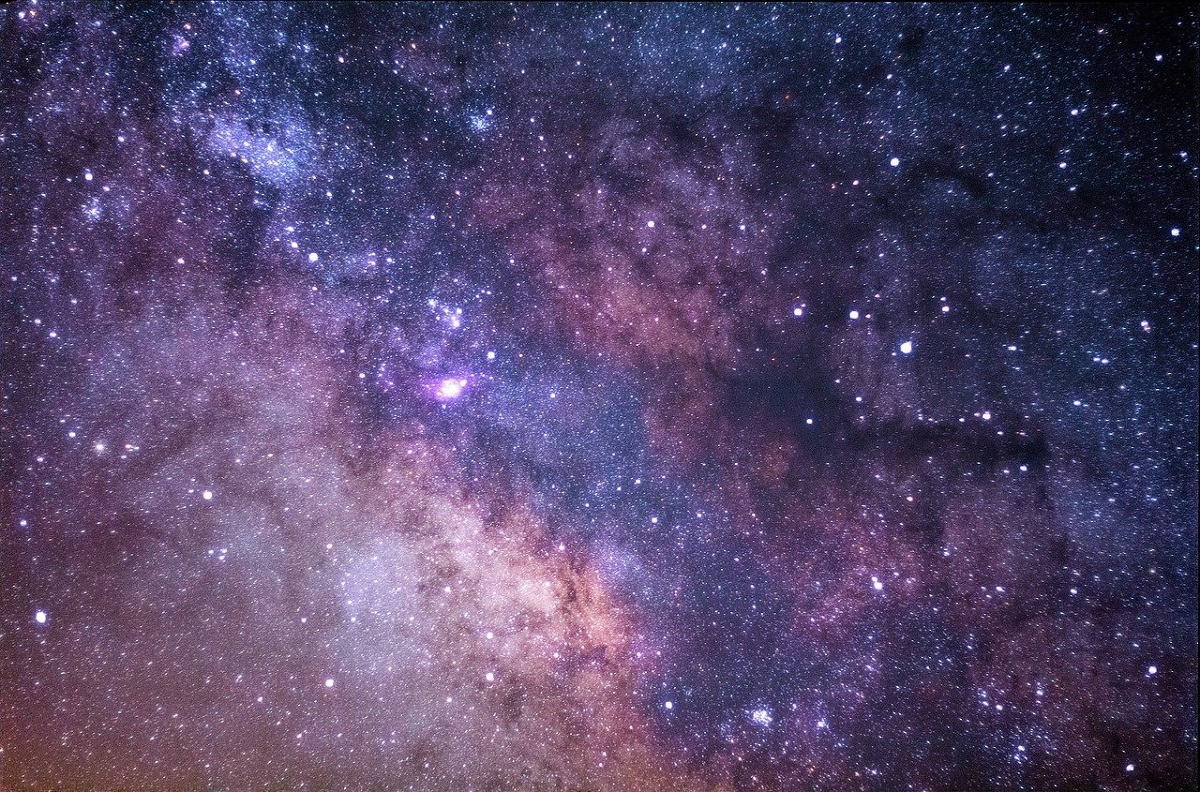
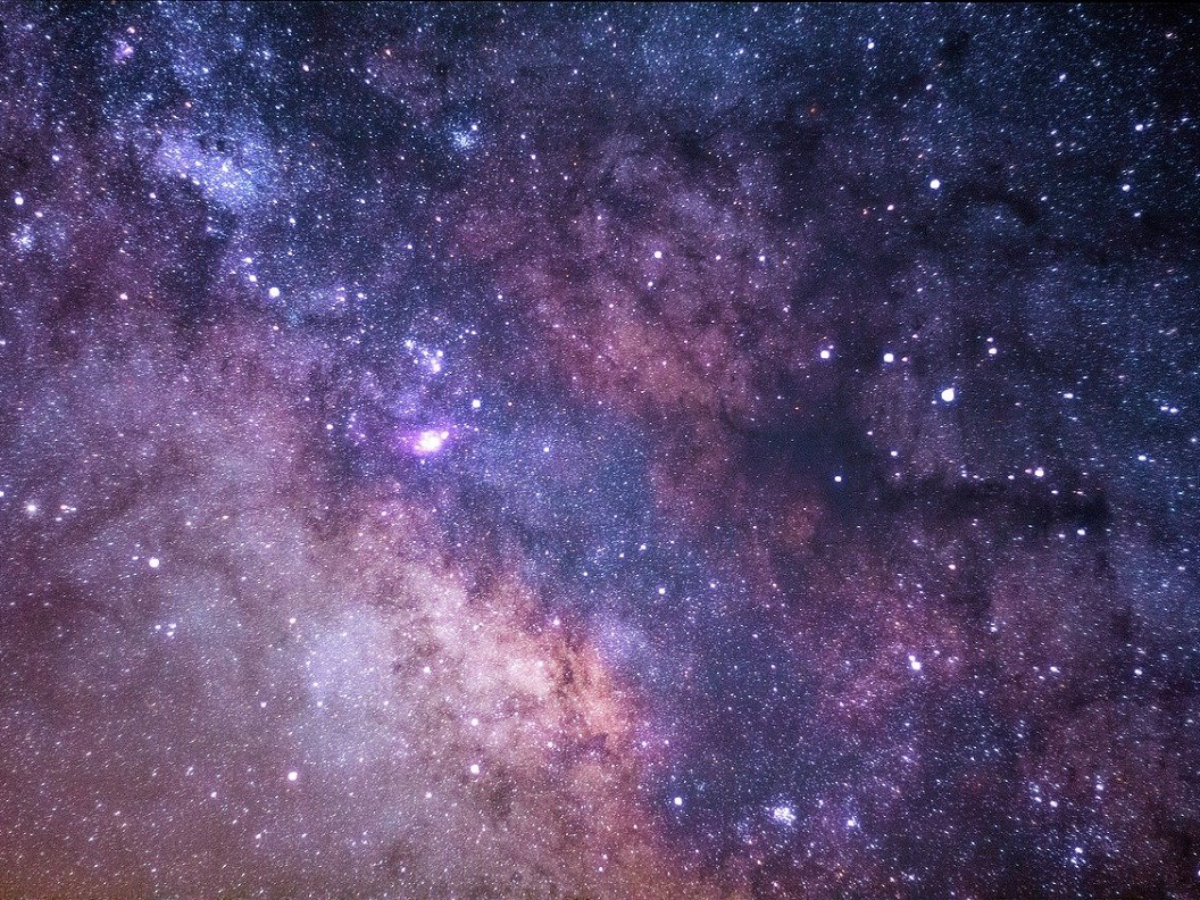
cambio de media quety para celular

diff --git a/css/main.css b/css/main.css
@@ -78,22 +78,12 @@ header nav div ul li a {
 }
 
 /* Main */
-main {
-  margin: 1rem 1rem 1rem 1rem;
-}
+
 
 main .foto-main img {
-  display: flex;
   justify-content: center;
   width: 100%;
 }
-
-
-
-
-
-
-
 
 main div h3 img {
   margin-top: 10px;
@@ -227,23 +217,27 @@ form #enviar {
     grid-column: span 2;
   }
 
-  
+
   /* pagina vision */
 
-  main h2{
+  main h2 {
     color: darkgrey;
     text-align: center;
     margin-top: 15px;
   }
-  
-  main{
+
+  main {
+    width: 575px;
+  }
+
+  main .galaxia img {
+    justify-content: center;
     width: 100%;
-    height: 100%;
-    object-fit: cover;
+    padding: 15px 15px 15px 15px;
   }
 
 
-  main .BOX-one img{
+  main .BOX-one img {
     display: grid;
     padding: 20px 20px 20px 20px;
     width: 100%;
@@ -251,8 +245,8 @@ form #enviar {
     object-fit: cover;
     grid-template-columns: repeat(3, 1fr);
   }
-  
-  main .BOX-two img{
+
+  main .BOX-two img {
     width: 100%;
     height: 100%;
     object-fit: cover;
@@ -282,14 +276,16 @@ form #enviar {
 
   }
 
-  main .fotos-intro{
+  main .fotos-intro {
+    margin: 15px 15px 15px 15px;
     display: grid;
     grid-template-columns: repeat(3, 1fr);
-    gap: 1rem;
+    gap: 20px;
     grid-template-rows: 40% 40% 20%;
   }
 
-  main .RESTO img, main .WATERMELON img{
+  main .RESTO img,
+  main .WATERMELON img {
     display: block;
   }
 
@@ -299,16 +295,18 @@ form #enviar {
     object-fit: cover;
   }
 
-  main .TORRE, main .BENITO{
+  main .TORRE,
+  main .BENITO {
     grid-row: span 2;
   }
 
-  main .RESTO, main .WATERMELON {
+  main .RESTO,
+  main .WATERMELON {
     grid-column: span 1;
   }
 
 
-  main .MONEY{
+  main .MONEY {
     grid-column: span 3;
   }
 
@@ -318,20 +316,26 @@ form #enviar {
 
   /* pagina vision */
 
-  main h2{
+  main h2 {
     color: darkgrey;
     text-align: center;
     margin-top: 15px;
   }
-  
-  main{
+
+  main {
     width: 100%;
     height: 100%;
     object-fit: cover;
+    justify-content: center;
+  }
+
+  main .galaxia img {
+    justify-content: center;
+    width: 100%;
   }
 
 
-  main .BOX-one img{
+  main .BOX-one img {
     display: grid;
     padding: 20px 20px 20px 20px;
     width: 100%;
@@ -339,16 +343,17 @@ form #enviar {
     object-fit: cover;
     grid-template-columns: repeat(3, 1fr);
   }
-  
-  main .BOX-two img{
+
+  main .BOX-two img {
     width: 100%;
     height: 100%;
     object-fit: cover;
     display: grid;
+    padding: 20px 20px 20px 20px;
     grid-template-columns: repeat(3, 1fr);
     gap: 15px;
   }
-  
+
 
 
 

diff --git a/index.html b/index.html
@@ -80,7 +80,7 @@
                 <img src="img/MONEY.jpg" alt="">
             </div>
 
-            
+
             <div class="GATO">
                 <img src="img/GATO.jpg" alt="">
             </div>
